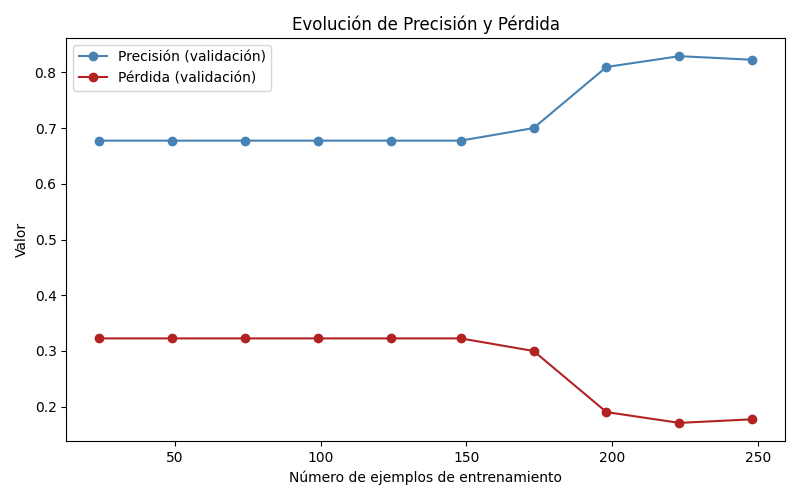
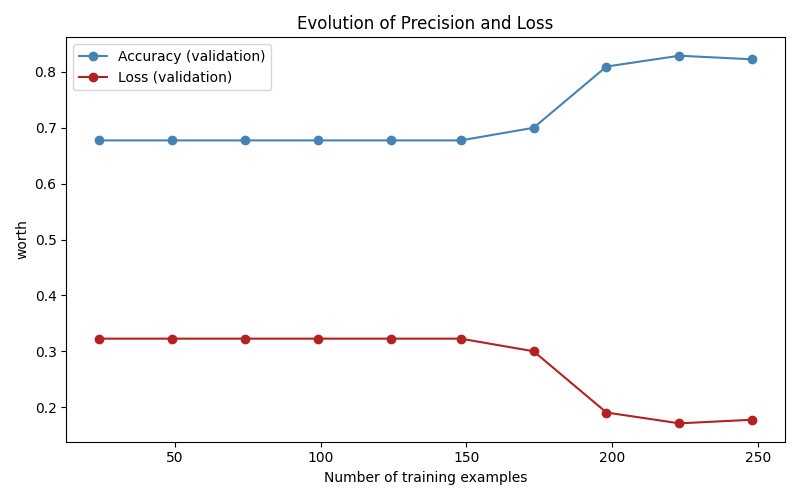
update

diff --git a/entrenar_modelo.py b/entrenar_modelo.py
@@ -247,11 +247,11 @@ loss_val   = 1 - precision_val
 
 # Graficar evolución de precisión y pérdida
 plt.figure(figsize=(8, 5))
-plt.plot(train_sizes, precision_val, "o-", color="steelblue", label="Precisión (validación)")
-plt.plot(train_sizes, loss_val, "o-", color="firebrick", label="Pérdida (validación)")
-plt.xlabel("Número de ejemplos de entrenamiento")
-plt.ylabel("Valor")
-plt.title("Evolución de Precisión y Pérdida")
+plt.plot(train_sizes, precision_val, "o-", color="steelblue", label="Accuracy (validation)")
+plt.plot(train_sizes, loss_val, "o-", color="firebrick", label="Loss (validation)")
+plt.xlabel("Number of training examples")
+plt.ylabel("worth")
+plt.title("Evolution of Precision and Loss")
 plt.legend()
 plt.tight_layout()
 plt.savefig("curva_precision_perdida.png")
